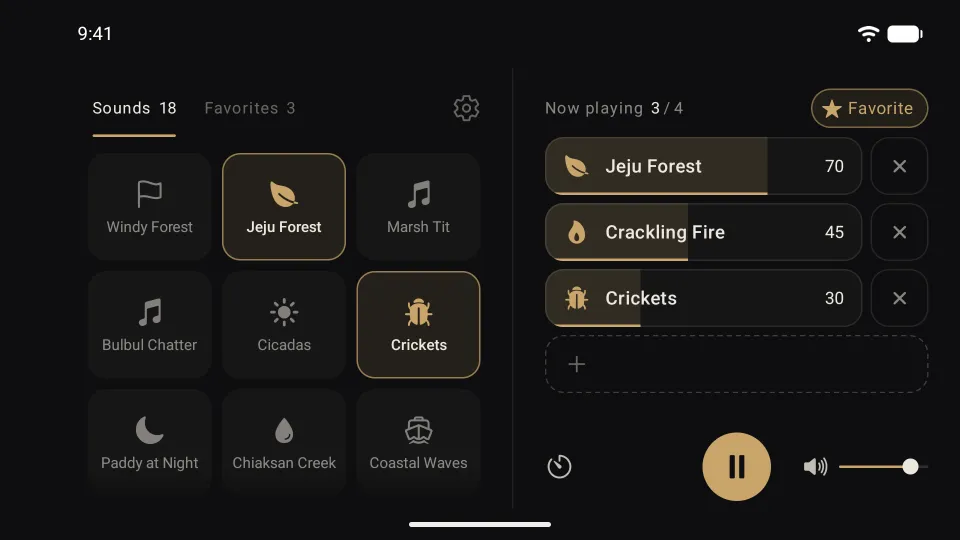
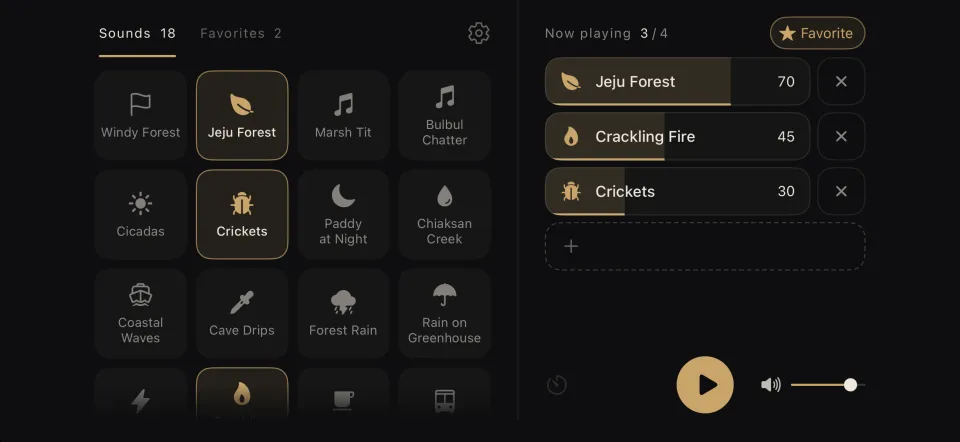
feat: 사라락 홍보 페이지의 가로 화면 캡처를 iPhone 화면으로 바꿈
Claude-Session: https://claude.ai/code/session_01JywJnyFAonDbNCEtTYo7K1

diff --git a/sararak/en/index.html b/sararak/en/index.html
@@ -171,7 +171,7 @@
 <p>Turn your iPhone sideways to see the sounds and the mixer side by side.</p>
 </div>
 <figure class="shot">
-<img src="../img/en/4-landscape.webp" width="960" height="540" loading="lazy" alt="The landscape layout, with sound tiles on the left and the mixer and play button on the right.">
+<img src="../img/en/4-landscape.webp" width="960" height="442" loading="lazy" alt="The landscape layout, with sound tiles on the left and the mixer and play button on the right.">
 </figure>
 </div>
 </div>

diff --git a/sararak/ko/index.html b/sararak/ko/index.html
@@ -171,7 +171,7 @@
 <p>iPhone을 가로로 돌리면 소리 목록과 믹서를 나란히 보여 줍니다.</p>
 </div>
 <figure class="shot">
-<img src="../img/ko/4-landscape.webp" width="960" height="540" loading="lazy" alt="가로 화면. 왼쪽에 소리 타일, 오른쪽에 믹서와 재생 버튼">
+<img src="../img/ko/4-landscape.webp" width="960" height="442" loading="lazy" alt="가로 화면. 왼쪽에 소리 타일, 오른쪽에 믹서와 재생 버튼">
 </figure>
 </div>
 </div>

diff --git a/README.md b/README.md
@@ -47,7 +47,7 @@ plan275-site/
   - `<meta name="apple-itunes-app" content="app-id=6825819206">`: 아이폰 Safari에서 페이지 위에 받기·열기 배너가 뜬다.
   - 구조화 데이터의 `offers` 가격은 한국어판 KRW 6600, 영어판 USD 3.99다. App Store 가격이 바뀌면(Apple의 환율·세금 조정 포함) 함께 고친다. 지금 가격은 `https://itunes.apple.com/lookup?id=6825819206&country=kr`(`us`)로 본다.
 - **홍보 문구 원칙** (2026-10-31 사용자 결정): 쓰는 상황(공부, 잠들기 전 등)과 소개 문구는 쓰되 효과(수면 개선, 스트레스 완화 등)를 주장하지 않는다. 기능 설명은 앱 저장소의 스토어 문구(`docs/agent_docs/GUIDE-20261024-0001-store-listing.md`)와 같은 사실만 쓴다. 앱이 바뀌면 그 문서의 "앱이 바뀌면 함께 고칠 곳"을 따라 이 페이지도 고친다.
-- **이미지**: 세로 화면 캡처(`1-main`, `2-timer`, `3-favorites`)는 App Store용 iPhone 스크린샷 원본(1206×2622, 앱 저장소 밖 `~/Downloads/sararak-screenshots/{ko,en}/`)을 `cwebp -q 80 -resize 540 0`으로 줄인다 (540×1175, 2026-11-08 Android 캡처에서 바꿨다). 가로 캡처(`4-landscape`)는 아직 Android 캡처(1920×1080을 `960 540`으로)다. `icon.svg`는 앱 저장소 `scripts/icon/make_icons.py`의 `svg('any')` 출력이다. 아이콘이나 화면이 바뀌면 다시 만든다.
+- **이미지**: 세로 화면 캡처(`1-main`, `2-timer`, `3-favorites`)는 App Store용 iPhone 스크린샷 원본(1206×2622, 앱 저장소 밖 `~/Downloads/sararak-screenshots/{ko,en}/`)을 `cwebp -q 80 -resize 540 0`으로 줄인다 (540×1175, 2026-11-08 Android 캡처에서 바꿨다). 가로 캡처(`4-landscape`)는 iPhone 17 시뮬레이터를 DeviceHub에서 돌려 `simctl io <기기> screenshot`으로 찍고(2622×1206, 가로에서는 iOS가 상태 막대를 숨긴다) `cwebp -q 80 -resize 960 0`으로 줄인다 (960×442). `icon.svg`는 앱 저장소 `scripts/icon/make_icons.py`의 `svg('any')` 출력이다. 아이콘이나 화면이 바뀌면 다시 만든다.
 - 링크와 `style.css`는 상대 경로로 쓴다. `404.html`만 어느 경로에서나 쓰이므로 `/style.css`를 쓴다 (사용자 도메인 루트 기준).
 - 한국어와 영어 페이지는 서로 링크한다 (상단 `nav`, 2026-10-22에 되살렸다). Play Console에는 방침 URL을 하나만 넣을 수 있어 영어판을 넣고, 거기서 한국어판으로 간다.
 - 앱은 방침을 주소 끝에 `#app`을 붙여 앱 안 웹 뷰로 연다. 그때는 다른 페이지로 옮겨 가지 않게 링크를 없앤다: 방침 페이지 `<body>` 맨 앞의 `<span id="app"></span>`와 `style.css`의 `#app:target` 규칙이 `nav`를 숨기고, 본문의 사이트 안 링크(`class="site-link"`)를 누를 수 없게 한다.
@@ -88,4 +88,4 @@ python3 -m http.server -d . 8000   # http://localhost:8000/
 - [ ] Google Search Console과 네이버 서치어드바이저에 `plan275.com`을 등록하고 `sitemap.xml`을 제출한다 (소유 확인은 사용자)
 - [x] "폴더블과 아이폰 듀오" 절에 화면 캡처를 더한다. 2026-11-01에 아이폰 듀오 펼침 화면을 가로(`5-duo.webp`)와 세로(`6-duo-upright.webp`) 두 장으로 넣었다 (넓은 화면에서는 같은 높이로 나란히, 좁은 화면에서는 위아래로). 시뮬레이터는 `simctl`로 펼칠 수 없어 사용자가 DeviceHub에서 펼치고, `simctl io <기기> screenshot --display=3`으로 찍어 `cwebp -q 80 -resize 960 0`(세로는 `540 0`)으로 줄였다 (상태 막대는 `simctl status_bar override --time 9:41`로 정리). Android 폴더블 테이블탑 캡처는 넣지 않는다 (2026-11-01 사용자 결정. 아이폰 듀오를 펼쳐 세로로 세운 화면과 같은 테이블탑 배치다)
 - [x] 스토어에 출시되면 홍보 페이지의 "출시 예정"을 스토어 링크(배지)로 바꾸고, 구조화 데이터에 스토어 주소를 더한다 (2026-11-08. iOS는 2026-11-05 출시. `installUrl`·`offers`, 스마트 앱 배너)
-- [ ] 가로 화면 캡처(`4-landscape.webp`)를 iPhone 캡처로 바꾼다. `simctl`로는 회전할 수 없어 사용자가 DeviceHub에서 돌려야 한다
+- [x] 가로 화면 캡처(`4-landscape.webp`)를 iPhone 캡처로 바꾼다 (2026-11-08)
